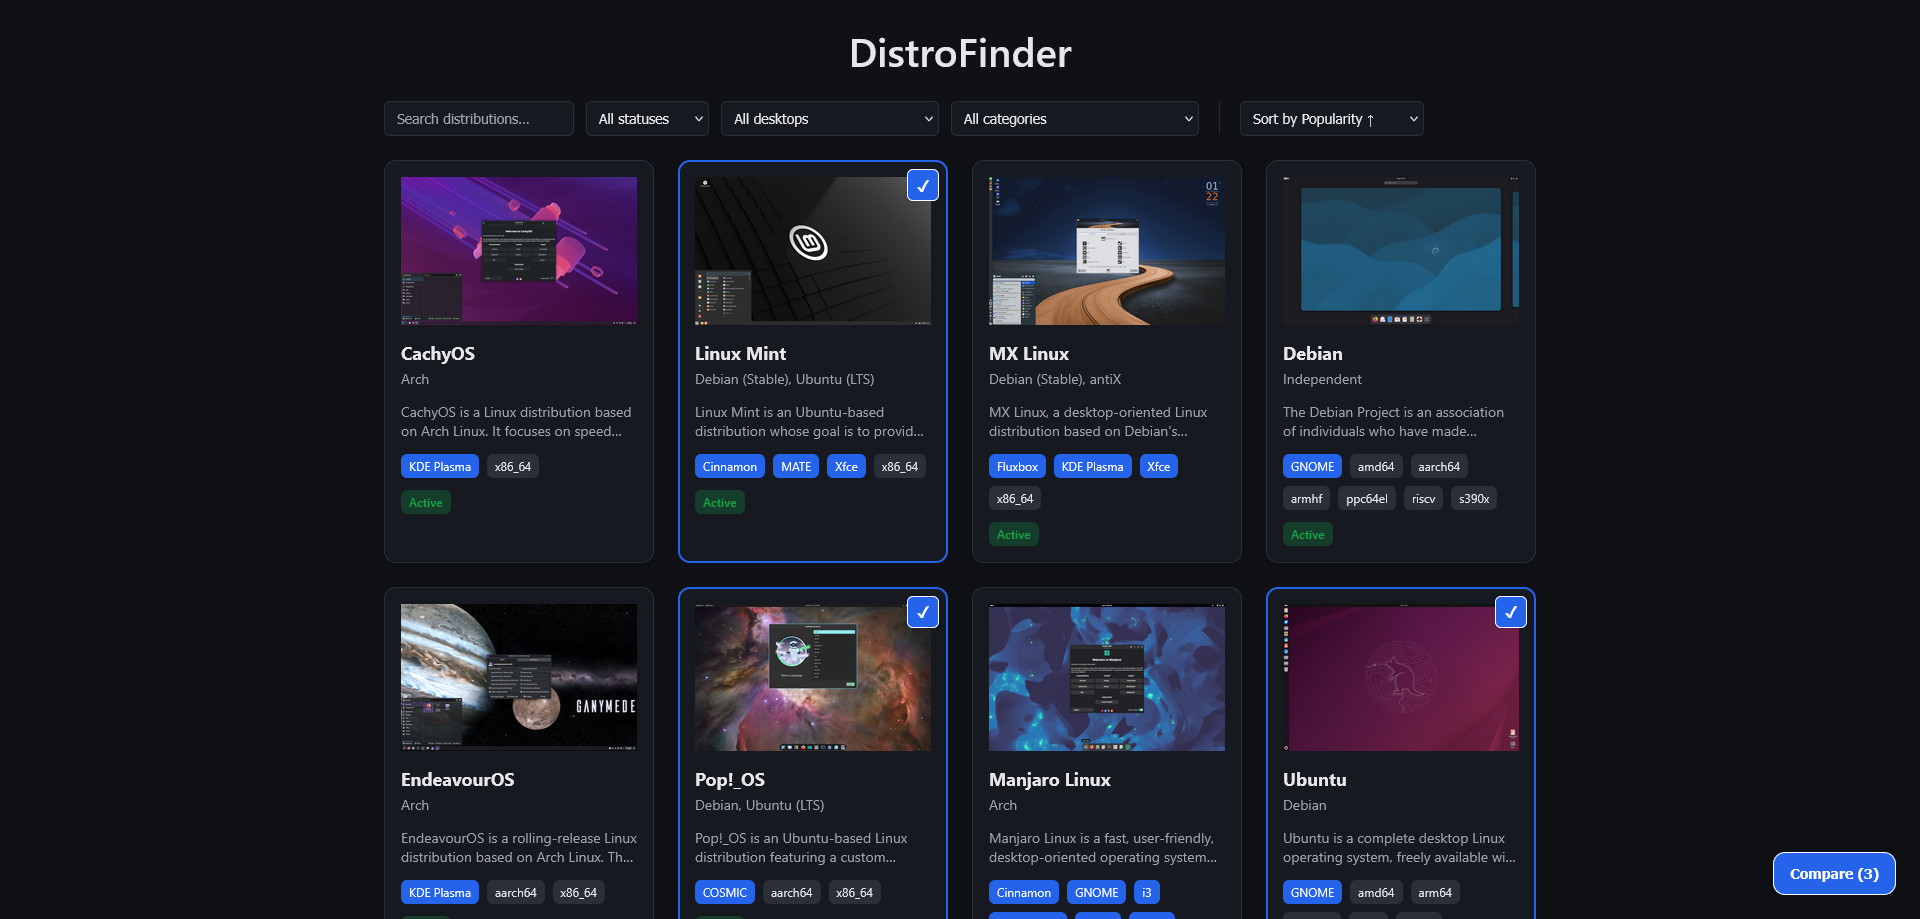
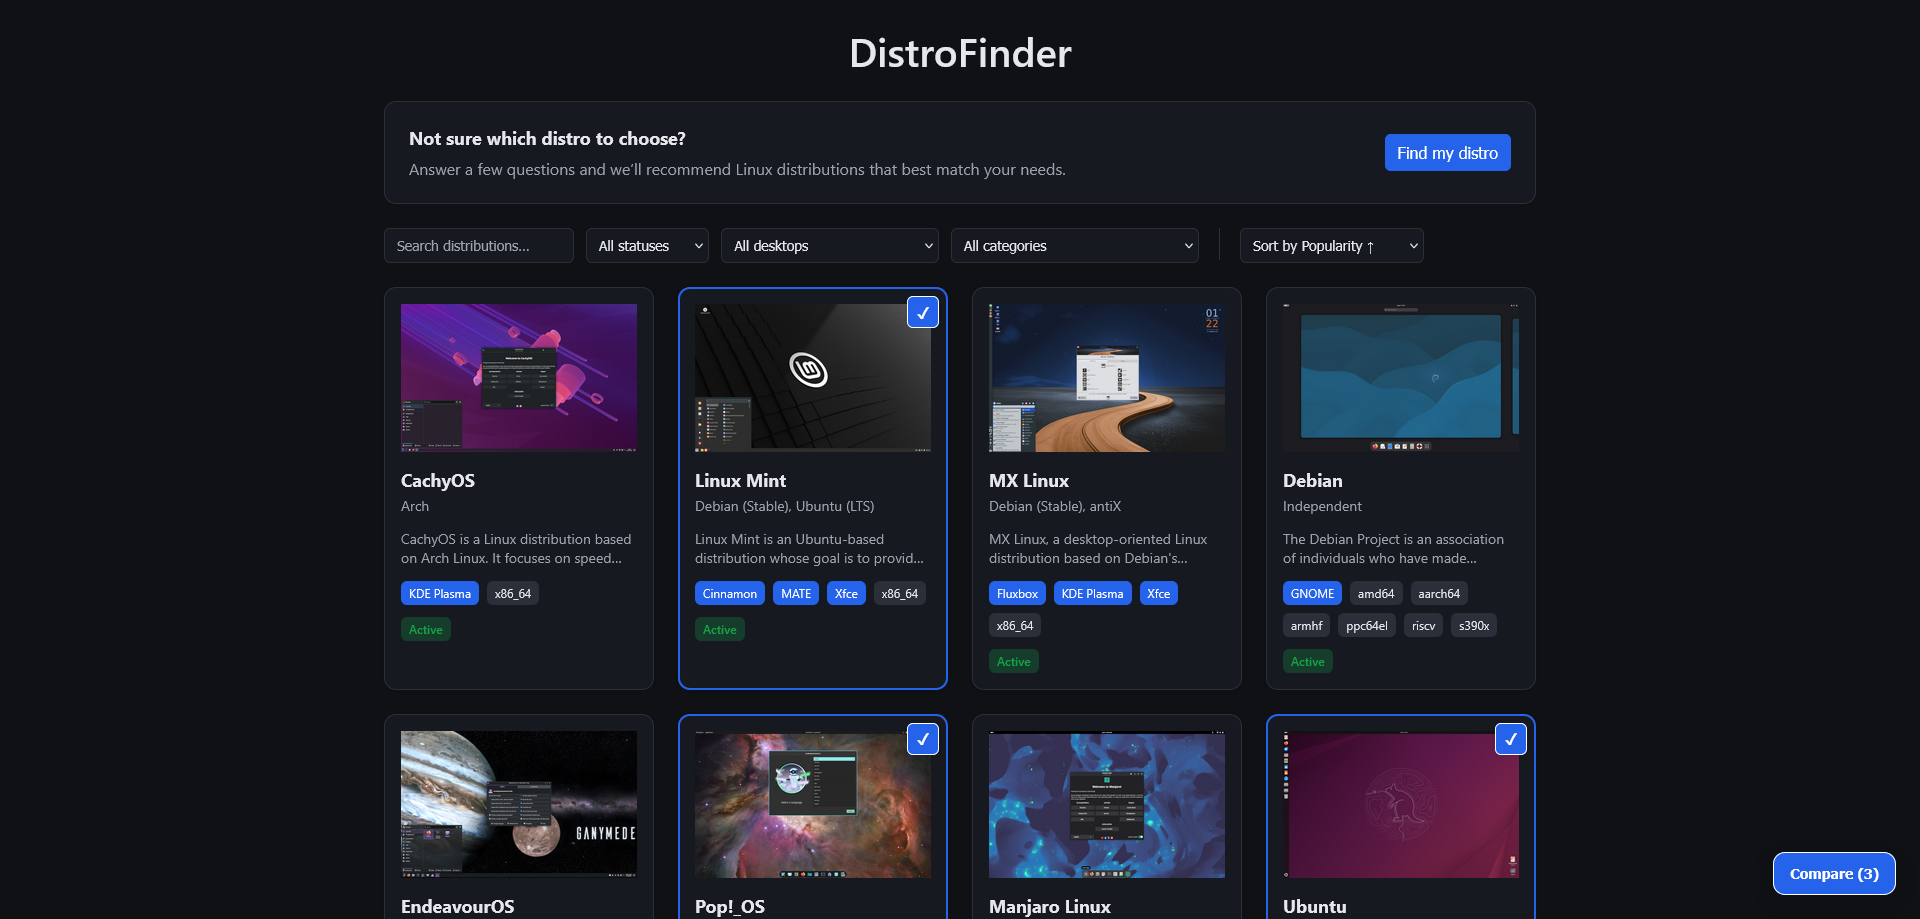
feat: add Distro Recommendation Wizard images and update README

Changed region(s): [[0.1875, 0.1219, 0.8125, 1.0], [0.5, 0.1219, 0.5625, 0.1523]]

diff --git a/README.md b/README.md
@@ -19,6 +19,9 @@ The app focuses on **discoverability, clarity, and editorial-style presentation*
 ![Distro detail page on desktop](screens/distro-detail.png)
 ![Distro comparison selection on desktop](screens/compare-select.png)
 ![Distro comparison page on desktop](screens/compare-page.png)
+![Distro recommendation wizard on desktop](screens/wizard-1.png)
+![Distro recommendation wizard on desktop](screens/wizard-2.png)
+![Distro recommendation wizard on desktop](screens/wizard-results.png)
 | ![Home page on mobile](screens/homepage-mobile.png) | ![Distro detail page on mobile](screens/distro-detail-mobile-1.png) | ![Distro detail page on mobile](screens/distro-detail-mobile-2.png) |
 |---|---|---|
 
@@ -58,6 +61,21 @@ The app focuses on **discoverability, clarity, and editorial-style presentation*
 * Accessible via URL with query parameters (e.g. `/?compare=ubuntu,mint`)
 * Clickable links to remove distros from comparison
 
+### 🧭 Distro Recommendation Wizard
+
+* Interactive wizard that recommends distributions based on your needs (`/wizard`)
+* Accessible from the Home page via the recommendation callout/button
+* Steps collected by the wizard:
+  - Experience level (beginner, intermediate, advanced)
+  - Primary use cases (multiple selection)
+  - Hardware profile (older computer, Raspberry Pi, server, etc.)
+  - Priorities / philosophy (ease-of-use, privacy, stability, performance, free-software)
+  - Preferred desktop environment and other options for intermediate/advanced users
+* The wizard scores distros client-side against your answers and presents a ranked list with short reasons for each recommendation
+* State is persisted locally (so you can resume the wizard), and the logic is implemented in `src/utils/scoring.ts` and `src/utils/wizardStorage.ts`.
+* Use the result list to jump to distro detail pages.
+
+
 ### 🎨 Design System
 
 * Custom design system based on **CSS variables** (no Tailwind)
@@ -66,6 +84,7 @@ The app focuses on **discoverability, clarity, and editorial-style presentation*
   * Tag
   * StatusBadge
   * DefinitionRow
+  * RadioGroup
 * Consistent spacing, typography, and color tokens
 
 ---
@@ -76,26 +95,15 @@ The app focuses on **discoverability, clarity, and editorial-style presentation*
 src/
 ├── components/
 │   ├── compare/          # Comparison-specific components
-│   │   ├── CompareFAB.tsx
-│   │   └── ComparisonTable.tsx
 │   ├── distro/           # Distro-specific components
-│   │   ├── DistroCard.tsx
-│   │   └── DistroGrid.tsx
-│   ├── layout/           # Layout-level components (if any)
-│   │   └── AppLayout.tsx
-│   │── routing/          # Routing-related components (if any)
-│   │   └── ScrollToTop.tsx
+│   ├── layout/           # Layout-level components
+│   │── routing/          # Routing-related components
 │   ├── tags/             # Domain-aware clickable tags
-│   │   ├── CategoryTag.tsx
-│   │   └── DesktopTag.tsx
-│   └── ui/               # Reusable UI primitives
-│       ├── DefinitionRow.tsx
-│       ├── StatusBadge.tsx
-│       └── Tag.tsx
+│   ├── ui/               # Reusable UI primitives
+│   └── wizard/           # Recommendation wizard components
 ├── context/
 │   └── DistroContext.tsx # Global state & data access
 ├── data/
-│   ├── distros.json      # Static distro dataset
 │   └── distroServices.ts # Data fetching utilities
 ├── hooks/
 │   └── useDebouncedSearch.ts
@@ -106,6 +114,7 @@ src/
 ├── styles/
 │   ├── global.css        # Design tokens & global styles
 │   └── ...
+├── test/                 # Test utilities & mocks
 ├── types/
 │   └── distro.ts         # TypeScript types for distros
 ├── utils/
@@ -204,6 +213,7 @@ npm run build
 * `/` → Distro grid (home)
 * `/d/:slug` → Distro detail page
 * `/?compare=:slug1,:slug2` → Distro compare page
+* `/wizard` → Distro recommendation wizard
 
 React Router is used for client-side navigation.
 
